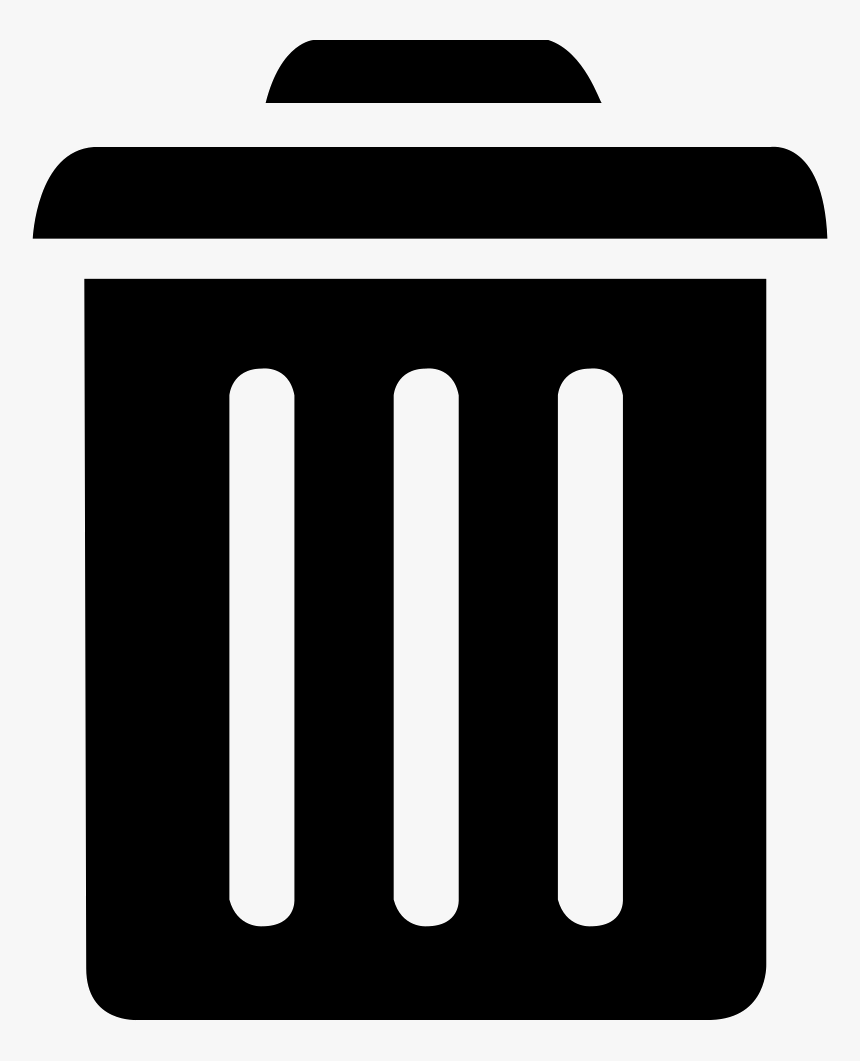
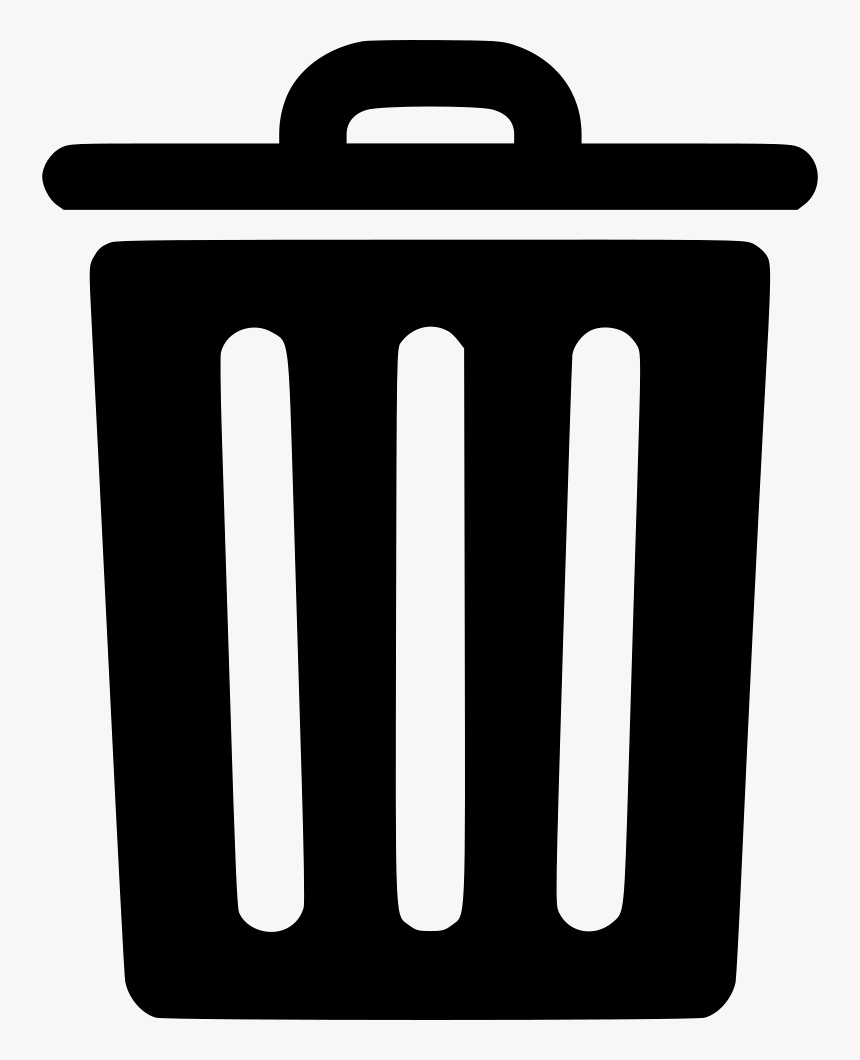
add trash button. WIP edit starting location

diff --git a/frontend/src/Components/Itinerary/Itinerary.js b/frontend/src/Components/Itinerary/Itinerary.js
@@ -1,5 +1,6 @@
 import React, { useEffect, useState } from "react";
 import axios from "axios";
+import { isDraftable } from "immer";
 
 export default function Itinerary(props) {
     const [userInfo, setUserInfo] = useState({
@@ -14,7 +15,8 @@ export default function Itinerary(props) {
     });
 
     const [userLandmarks, setUserLandmarks] = useState([]);
-
+    const [locationChange, setLocationChange] = useState("");
+    const [isEditing, setIsEditing] = useState(false);
     const token = JSON.parse(localStorage.getItem("jwtToken"));
     const storageUserId = localStorage.getItem("jwtUserId");
     const currentItineraryInfo = JSON.parse(
@@ -24,11 +26,14 @@ export default function Itinerary(props) {
     console.log("this is token" + token);
     const config = {
         headers: {
+           
           Authorization: `Bearer ${token}`,
+           
           "Content-Type": "application/json",
+       ,
           'Access-Control-Allow-Origin' : '*',
           'Access-Control-Allow-Methods':'GET,PUT,POST,DELETE,PATCH,OPTIONS'
-        },
+        },,
       };
 
     useEffect(() => {
@@ -46,7 +51,7 @@ export default function Itinerary(props) {
                 itineraries: [...result.data],
                 itineraryId: result.data.itineraryId,
                 itineraryName: result.data.itineraryName,
-                locationStart: "user's location",
+                locationStart: result.data.locationStart,
                 locationItinerary: result.data.startingPoint,
                 itineraryDate: result.data.itineraryDate,
                 data: result,
@@ -88,15 +93,34 @@ export default function Itinerary(props) {
             
     const displayLandmarks = userLandmarks.map((lm, count = 0) => (
         <li className="landmark-list-items" key={count + 1}>
-            <button className="landmark-list-buttons" name={lm.landmarkId} onClick={deleteLandmark}>{lm.landmarkName}</button>
+            <button className="landmark-list-buttons modify-button-set align-center" name={lm.landmarkId} onClick={deleteLandmark}>
+                {lm.landmarkName}
+                <div className="modify-button-set">
+                    <button className="trash-button" name="delete">
+                        <img src="btnDelete.png"></img>
+                    </button>
+                </div>
+            </button>
         </li>
     ));
+
+    const handleLocationChange = (e) => {
+        setUserInfo((prevInfo) => ({
+            ...prevInfo,
+            locationStart: e.target.value,
+        }));
+        console.log(userInfo.locationStart);
+    };
+
+    const isBeingEdit = () => {
+        setIsEditing((p) => !p);
+    }
 
     return (
         <div>
             <div className="itinerary-card">
                 <h1 className="itinerary-card-title">
-                    Edit {currentItineraryInfo.itineraryName}
+                    {currentItineraryInfo.itineraryName}
                 </h1>
                 <div className="itinerary-card-image">
                     <img
@@ -109,7 +133,16 @@ export default function Itinerary(props) {
                     <ul className="landmark-list">
                         <li className="landmark-list-items">
                             <button className="startPoint-button">
-                                {userInfo.locationStart}
+                                {isEditing ? (
+                                    <input
+                                        name="locationStart"
+                                        onChange={handleLocationChange}
+                                        onClick={isBeingEdit}
+                                        value={userInfo.locationStart}
+                                    />
+                                ) : (
+                                    <p>{userInfo.locationStart}</p>
+                                )}
                             </button>
                         </li>
                         {displayLandmarks}

diff --git a/frontend/src/styles/styles.css b/frontend/src/styles/styles.css
@@ -151,6 +151,17 @@ img {
 .delete-button:hover {
   background-color: lightskyblue;
 }
+
+.trash-button {
+  border: none;
+  width: 1.5rem;
+  filter: opacity(50%);
+}
+
+.trash-button:hover {
+  width: 2rem;
+}
+
 .landmark-action-buttons {
   display: flex;
   justify-content: center;
@@ -177,7 +188,13 @@ img {
 }
 
 .edit-button {
+  border: none;
   width: 2rem;
+}
+
+.modify-button-set {
+  display: flex;
+  justify-content: space-between;
 }
 
 .create-form-action {
@@ -388,7 +405,7 @@ height: 80%;
 .Landmark-card-title{
 
 font-size: larger;
-font-family: Impact, Haettenschweiler, 'Arial Narrow Bold', sans-serif;
+font-family: 'Segoe UI', Haettenschweiler, 'Arial Narrow Bold', sans-serif;
 }
 .landmark-location{
 
@@ -513,4 +530,9 @@ color: lightskyblue;
 
 .dim {
   color: lightgray;
+}
+
+.align-center {
+  display: flex;
+  align-items: center;
 }
